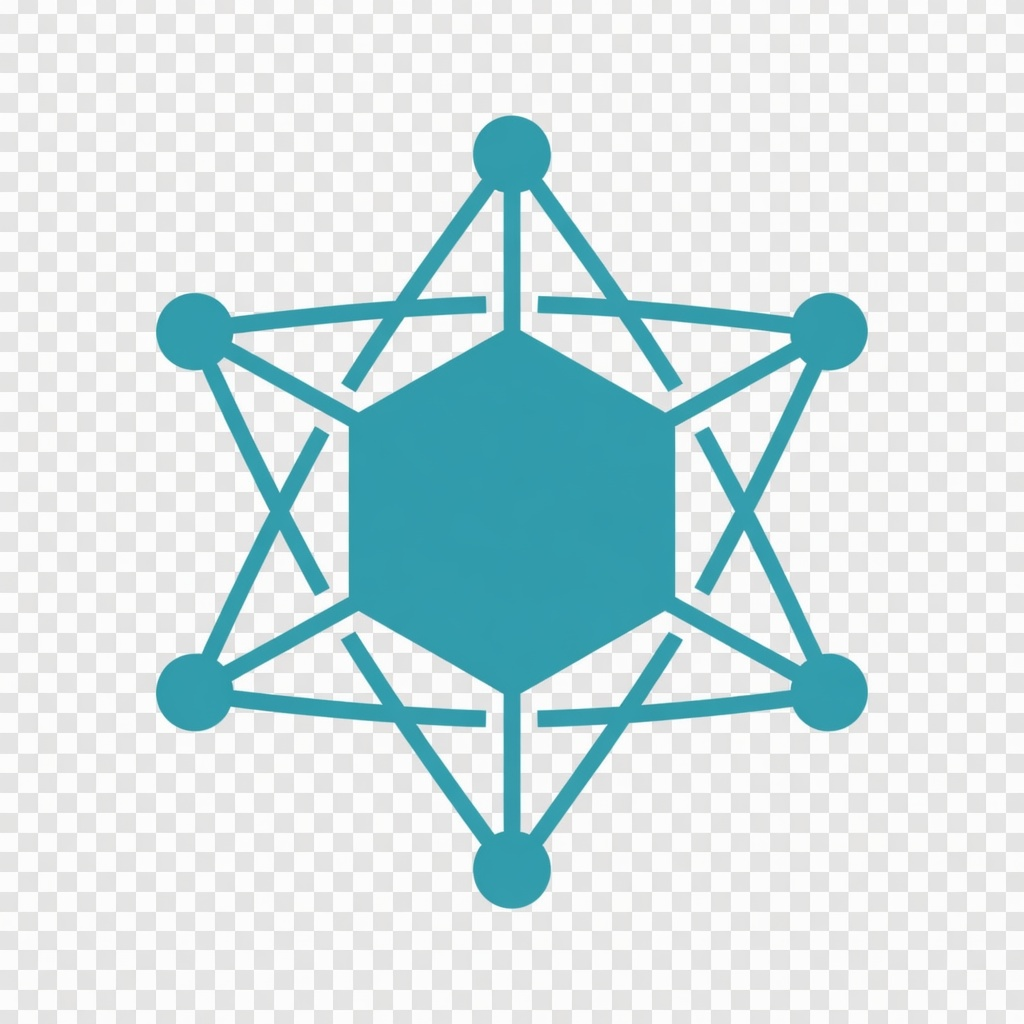
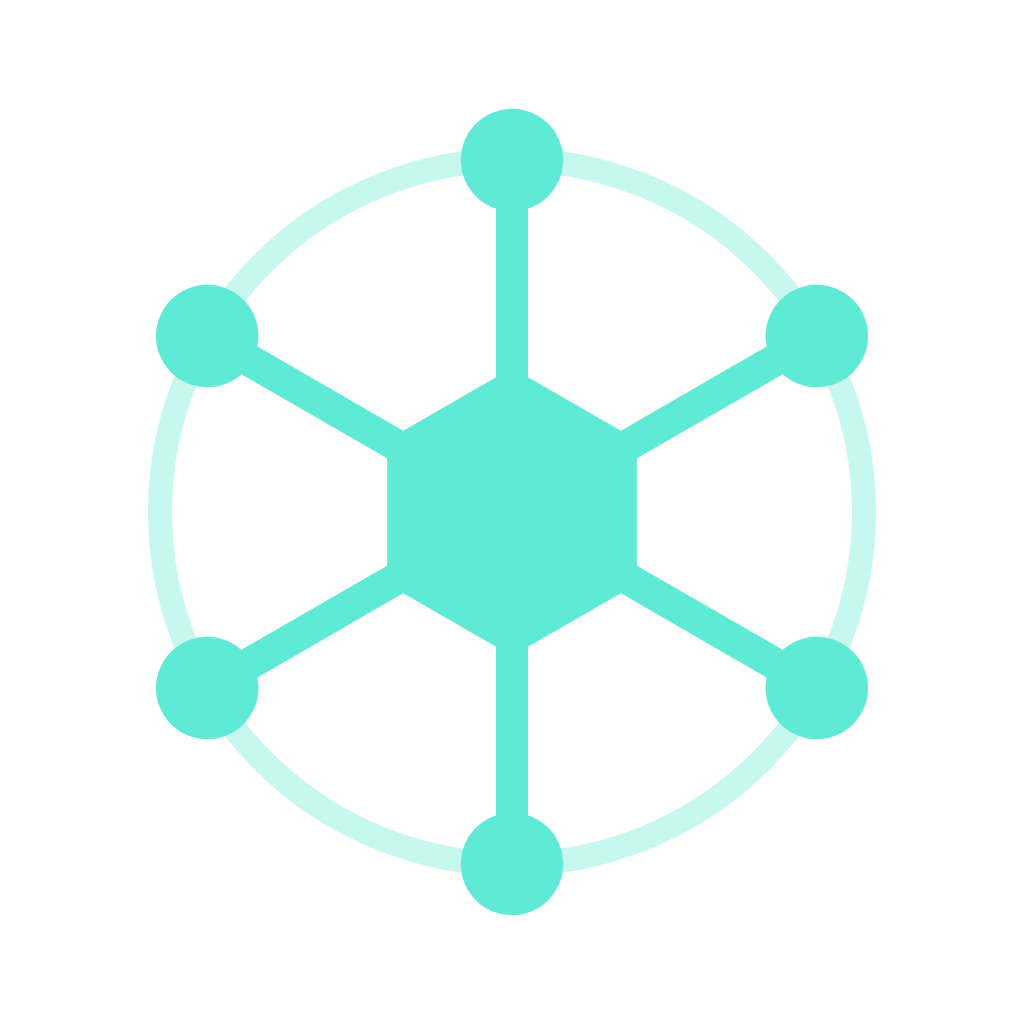
Use transparent PNG for NexusCore brand mark.
Rasterize the SVG mark with Playwright omitBackground, ship 256/512/1024 PNGs, drop JPG, and point meta/apple icons at PNG.

diff --git a/src/dashboard/index.html b/src/dashboard/index.html
@@ -10,12 +10,14 @@
     <meta property="og:description" content="Structured web data for AI agents. URL + schema → validated JSON. By NexusCore." />
     <meta property="og:type" content="website" />
     <meta property="og:url" content="https://agentapigw.dpdns.org/" />
-    <meta property="og:image" content="https://agentapigw.dpdns.org/brand/nexuscore-mark.jpg" />
+    <meta property="og:image" content="https://agentapigw.dpdns.org/brand/nexuscore-mark.png" />
+    <meta property="og:image:type" content="image/png" />
     <meta name="twitter:card" content="summary" />
-    <meta name="twitter:image" content="https://agentapigw.dpdns.org/brand/nexuscore-mark.jpg" />
+    <meta name="twitter:image" content="https://agentapigw.dpdns.org/brand/nexuscore-mark.png" />
     <meta name="referrer" content="strict-origin-when-cross-origin" />
     <link rel="icon" type="image/svg+xml" href="/favicon.svg" />
-    <link rel="apple-touch-icon" href="/brand/nexuscore-mark.jpg" />
+    <link rel="icon" type="image/png" sizes="256x256" href="/brand/nexuscore-mark-256.png" />
+    <link rel="apple-touch-icon" href="/brand/nexuscore-mark-256.png" />
   </head>
   <body class="antialiased">
     <a href="#start" class="sr-only">